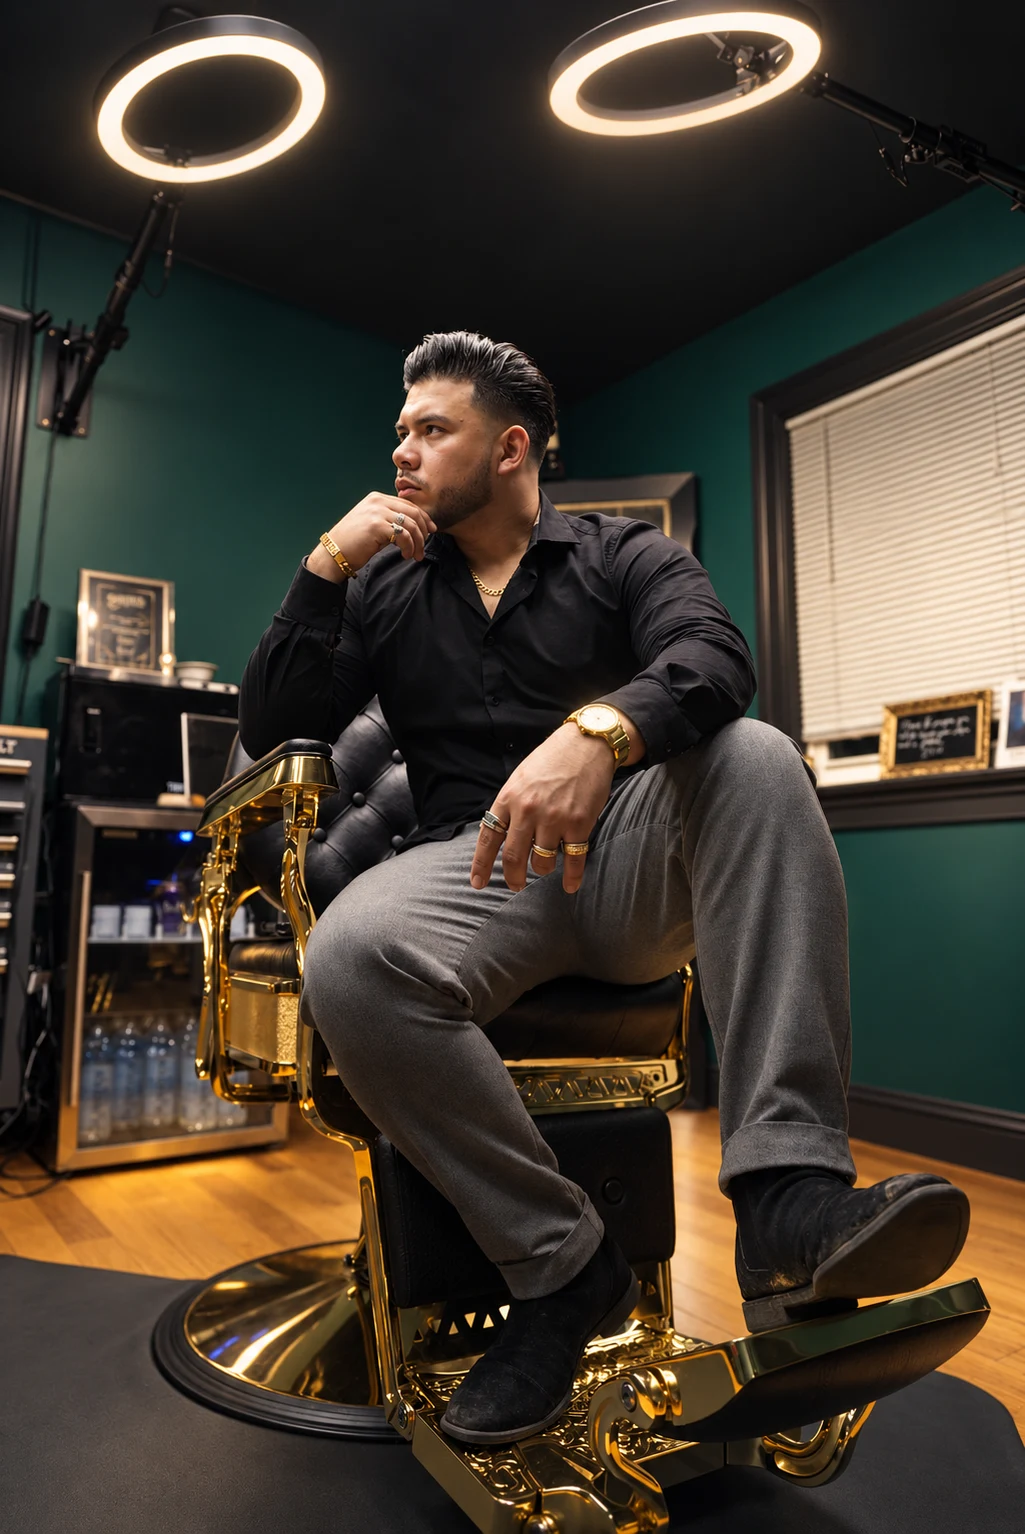
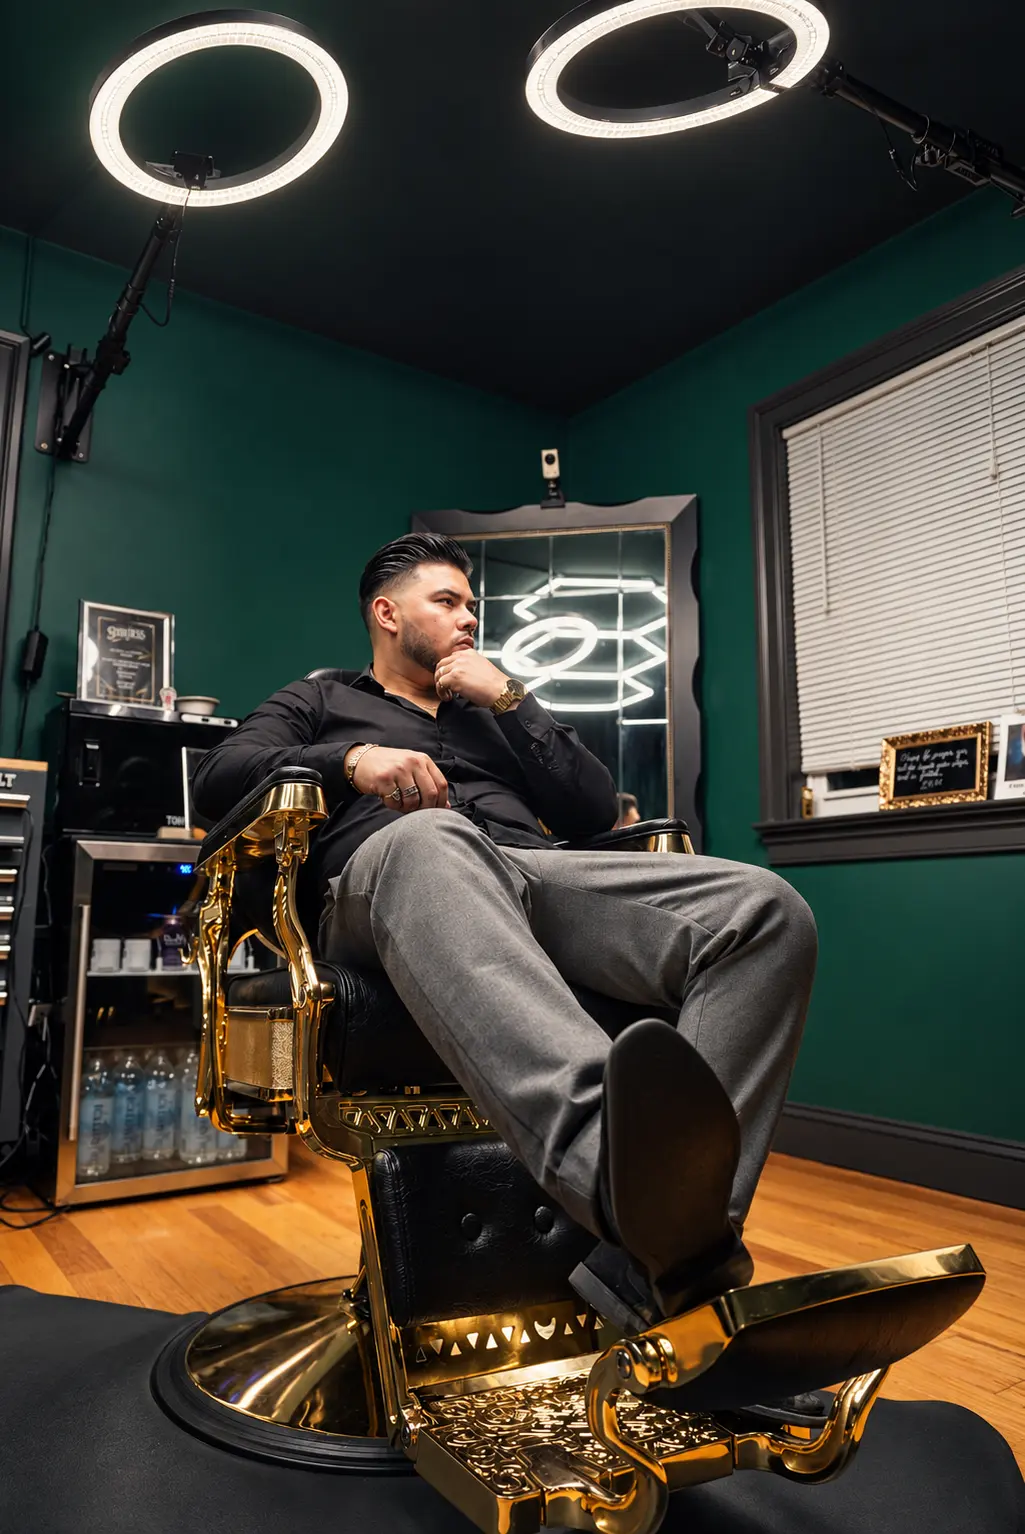
Add files via upload

diff --git a/index.html b/index.html
@@ -48,7 +48,7 @@
     <section class="intro" id="story"><div class="wrap intro-grid reveal"><div><p class="eyebrow">Where it began</p><h2 class="serif">A family’s guidance. A lifelong craft.</h2></div><div class="story-copy"><p>I started cutting hair at thirteen, but the journey was shaped by more than one person. My father introduced me to the craft and taught me how to cut hair. My stepfather also played an important role, motivating me to take the skill seriously—not only as something I enjoyed, but as a profession that could help me earn an income and provide for myself whenever necessary. Beyond barbering, his guidance and influence helped shape the man I have become.</p><p>My mother’s influence has been just as meaningful. She strengthened the foundation of my faith, encouraged me to draw closer to the Lord, and taught me to seek God’s wisdom when making important decisions.</p><p>At the time, I believed my parents were simply helping me develop a backup plan. Looking back, I realize they were giving me something far greater: a gift I could grow in, take pride in, and use to serve others. I thank God for placing each of them in my life and for using their individual influence to help shape the person I am today.</p><p>Barbering became more than a profession when I realized how much trust someone places in my hands when they sit in my chair. A haircut may seem like a small part of someone’s day, but the confidence and feeling they leave with can stay with them long after the appointment. That trust is something I value, and it is a responsibility I never take lightly.</p></div></div></section>
     <section class="legacy-strip" aria-label="The values that shaped Fades Place"><article class="legacy-card reveal"><span>13</span><h3>The beginning</h3><p>My family gave me both a dependable profession and a foundation of faith before I fully understood the gifts they were placing in my life.</p></article><article class="legacy-card reveal"><span>01</span><h3>One person at a time</h3><p>Every client deserves my full attention, patience, and care—without the pressure of someone waiting behind them.</p></article><article class="legacy-card reveal"><span>∞</span><h3>Always growing</h3><p>I never want to stop learning because I believe I have already done enough. Excellence requires humility.</p></article></section>
     <section class="trust"><div class="wrap trust-grid"><div class="portrait-frame reveal"><img src="studio-chair.webp" alt="Steven seated thoughtfully in his private Fades Place studio" loading="lazy"></div><div class="reveal"><p class="eyebrow">Trust behind the chair</p><p class="trust-quote">The cut may be finished to my eye. The experience is complete when the client feels <em>heard.</em></p><p class="trust-copy">The difficult moments have taught me just as much as the good ones. I have worked with clients who saw a detail differently than I did or wanted one more adjustment when I believed the cut was finished. Those experiences taught me to listen closely, remain patient, and hold my work to a higher standard. They taught me to stay humble and continue learning.</p></div></div></section>
-    <section class="work" id="work"><div class="wrap"><div class="work-head reveal"><div><p class="eyebrow">The work</p><h2>Precision you can feel.</h2></div><p>Different ages, textures, styles, and details—each service receives the same careful attention and respect.</p></div><div class="gallery reveal"><figure><img src="client-textured-fade.webp" alt="Finished textured fade on a young client at Fades Place" loading="lazy"><figcaption>Texture · Blend · Finish</figcaption></figure><figure><img src="client-beard.webp" alt="Finished mohawk fade and shaped beard at Fades Place" loading="lazy"><figcaption>Fade · Texture · Beard</figcaption></figure><figure><img src="client-layered-flow.webp" alt="Finished long layered flowing haircut at Fades Place" loading="lazy"><figcaption>Layers · Shape · Movement</figcaption></figure><figure><img src="client-young.webp" alt="Young client with a polished side-part fade" loading="lazy"><figcaption>Classic side part</figcaption></figure><figure><img src="client-texture.webp" alt="Finished textured haircut with a clean taper" loading="lazy"><figcaption>Texture · Shape · Finish</figcaption></figure><figure><img src="client-toddler.webp" alt="Happy toddler after a finished haircut at Fades Place" loading="lazy"><figcaption>Comfort at every age</figcaption></figure></div></div></section>
+    <section class="work" id="work"><div class="wrap"><div class="work-head reveal"><div><p class="eyebrow">The work</p><h2>Precision you can feel.</h2></div><p>Different ages, textures, styles, and details—each service receives the same careful attention and respect.</p></div><div class="gallery reveal"><figure><img src="client-textured-fade.webp" alt="Finished textured fade on a young client at Fades Place" loading="lazy"><figcaption>Texture · Blend · Finish</figcaption></figure><figure><img src="client-beard.webp" alt="Finished mohawk fade and shaped beard at Fades Place" loading="lazy"><figcaption>Fade · Texture · Beard</figcaption></figure><figure><img src="client-layered-flow.webp" alt="Finished long layered flowing haircut at Fades Place" loading="lazy"><figcaption>Layers · Shape · Movement</figcaption></figure><figure><img src="client-precision-fade.webp" alt="Client with a clean textured crop fade and precisely shaped beard at Fades Place" loading="lazy"><figcaption>Texture · Fade · Beard</figcaption></figure><figure><img src="client-texture.webp" alt="Finished textured haircut with a clean taper" loading="lazy"><figcaption>Texture · Shape · Finish</figcaption></figure><figure><img src="client-toddler.webp" alt="Happy toddler after a finished haircut at Fades Place" loading="lazy"><figcaption>Comfort at every age</figcaption></figure></div></div></section>
     <section class="standard"><div class="wrap"><div class="standard-grid reveal"><div><p class="eyebrow">What luxury means here</p><h2>Genuine care, without the pressure.</h2></div><div class="standard-copy"><p>To me, luxury means being genuinely cared for. It is found in a clean and peaceful environment, close attention to detail, and the freedom to relax because you trust the person serving you.</p><p>Fades Place is intentionally private. Your appointment is your time—time to be heard, to feel comfortable, and to receive a service built around the result you pictured.</p></div></div><div class="promise reveal"><article><b>Before</b><p>Feel welcomed from the first conversation.</p></article><article><b>During</b><p>Feel heard, valued, comfortable, and never rushed.</p></article><article><b>After</b><p>Leave confident, refreshed, and grateful you came.</p></article></div></div></section>
     <section class="faith"><div class="wrap faith-grid"><div class="faith-photo reveal"><img src="steven-faith.webp" alt="Steven with gold shears in the faith-centered Fades Place studio" loading="lazy"></div><div class="reveal"><p class="eyebrow">Faith at the center</p><h2 class="serif">Serving from the heart.</h2><div class="faith-copy"><p>My faith is at the center of the way I approach my work and the way I treat people. Through every season of my life—the victories, the challenges, and the moments that tested my character—God has guided me, strengthened me, and shaped me into the person I am today.</p><p>He has taught me to serve others righteously, with humility, honesty, patience, and excellence. I do not serve simply because I have to; I serve because it is genuinely in my heart to do so.</p><p>I believe every gift God gives us carries a purpose, and barbering has become one of the ways I can use my gift to care for others and make a positive difference in their lives.</p></div><p class="scripture">“As each has received a gift, use it to serve one another.”<br><small>— 1 Peter 4:10</small></p></div></div></section>
     <section class="vision"><div class="wrap vision-grid reveal"><div><p class="eyebrow">The vision ahead</p><h2 class="serif">A place where skill is developed and people are poured into.</h2></div><div class="vision-copy"><p>My hope is for Fades Place to grow into a space where skilled professionals can come together, encourage one another, and take pride in their craft. I want to build a culture rooted in faith, respect, mentorship, excellence, and continuous growth—a place where someone just starting out can receive the kind of guidance my family once gave me.</p><p>If this becomes my legacy, I hope people remember more than the haircuts. I hope they remember how they were treated, how they felt when they sat in my chair, and that they always felt welcomed, valued, and cared for at Fades Place.</p><div class="values"><span>Faith</span><span>Respect</span><span>Mentorship</span><span>Excellence</span><span>Growth</span></div></div></div></section>
